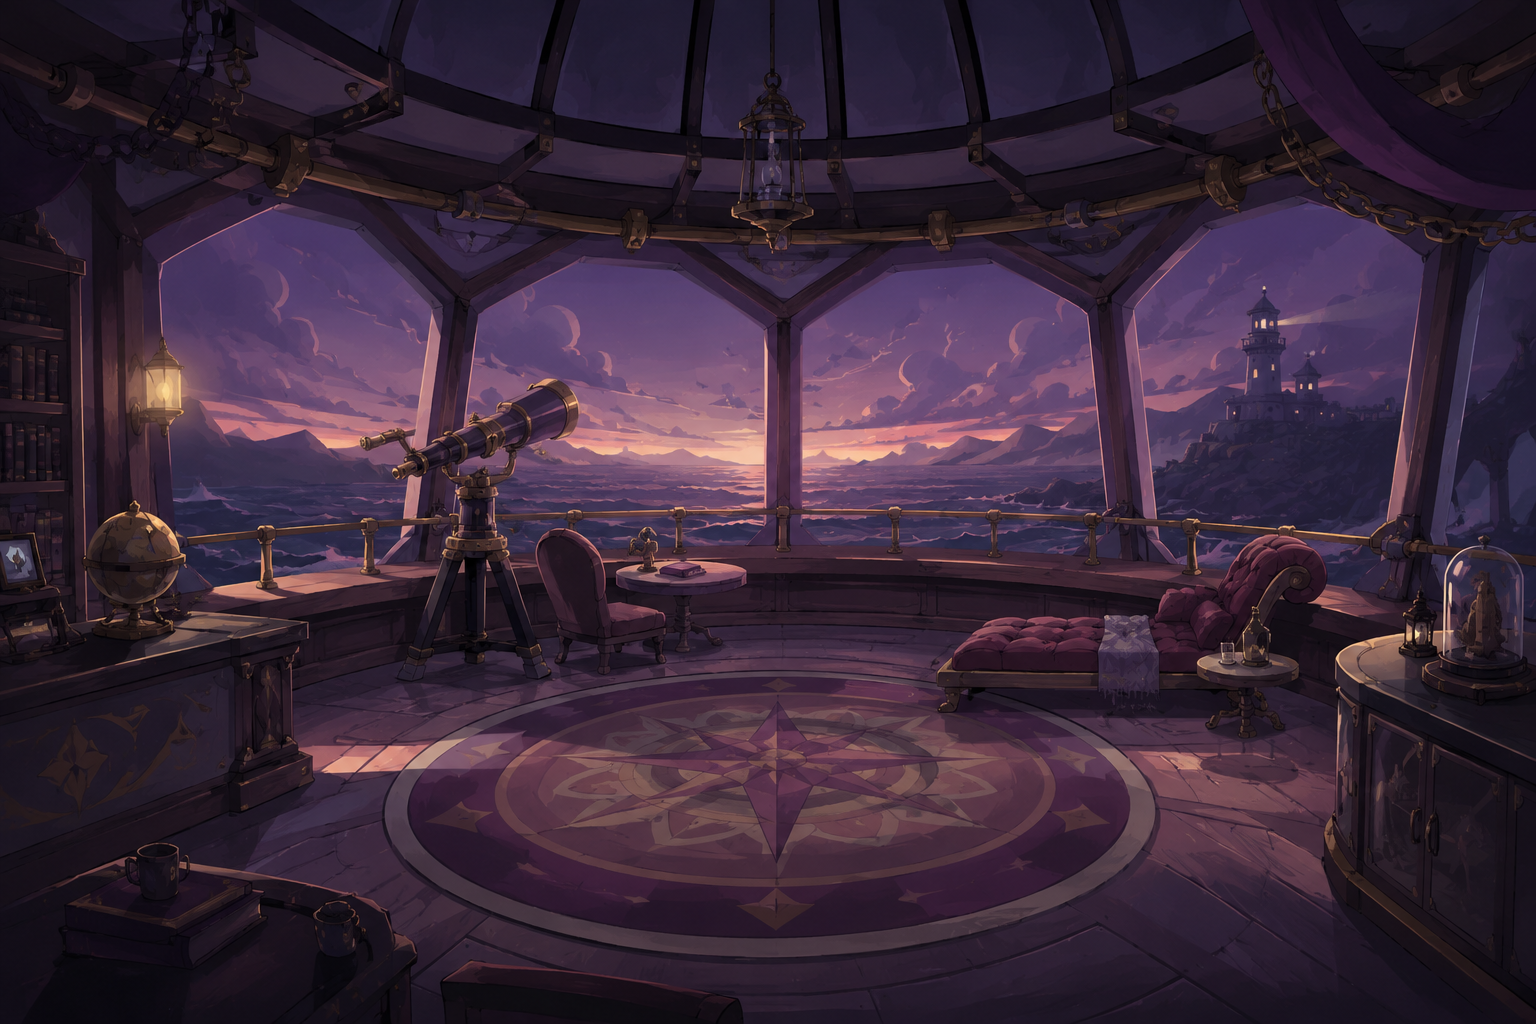
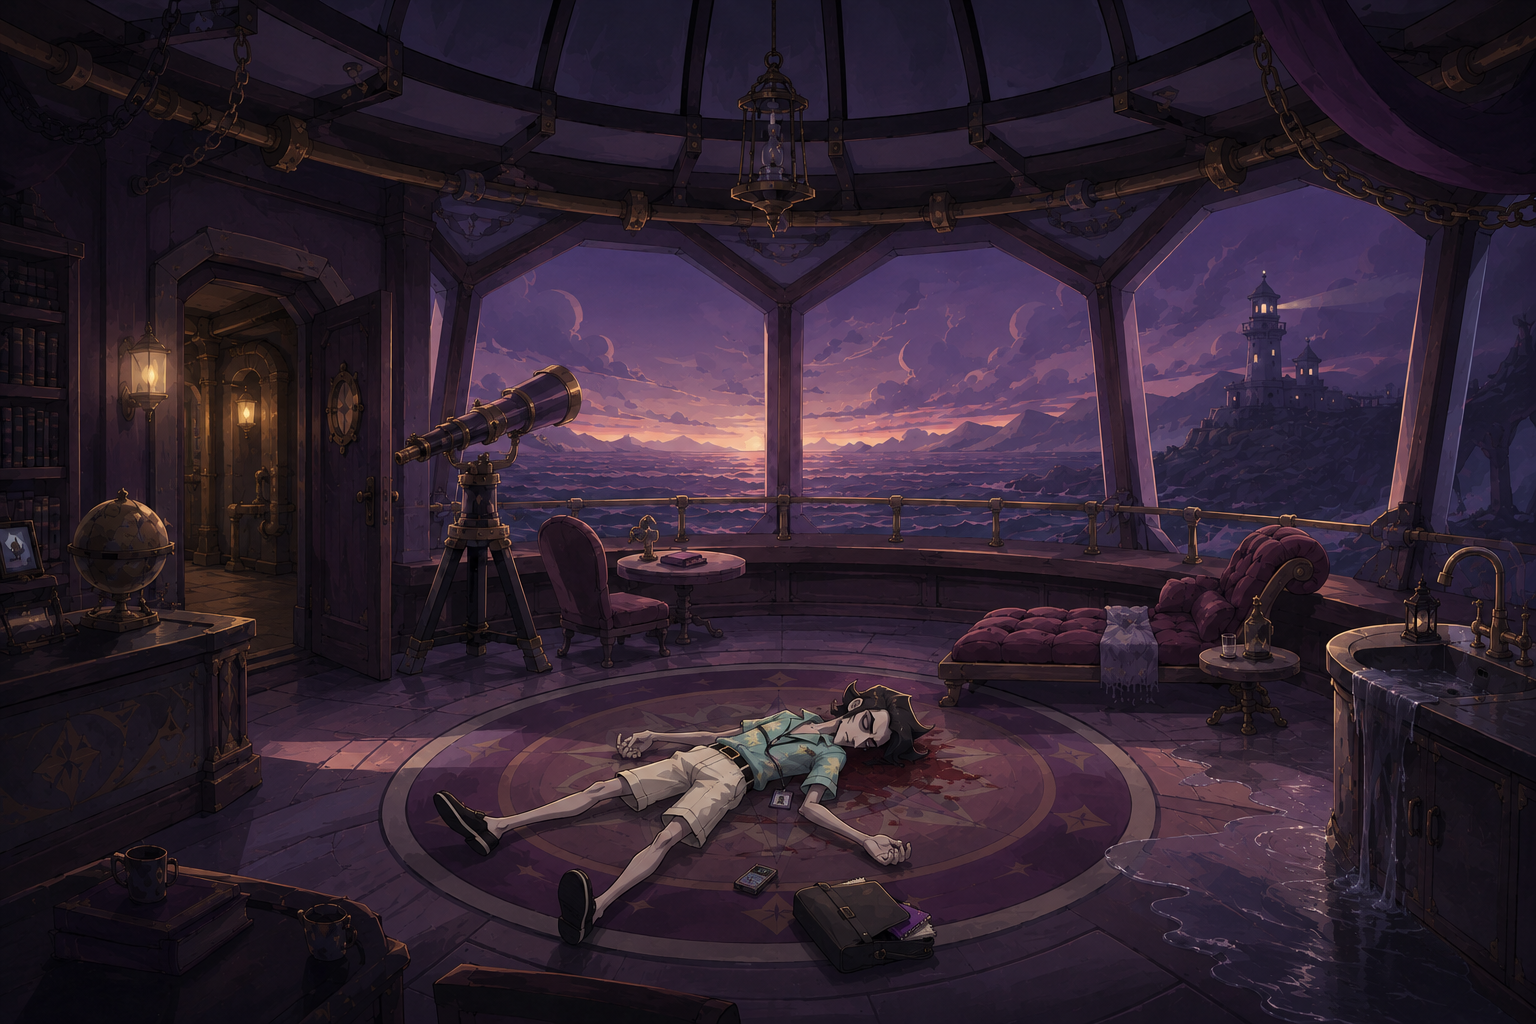
Complete location backgrounds and update Horizon Room

diff --git a/Assets/_Project/Art/Backgrounds/Locations/README.md b/Assets/_Project/Art/Backgrounds/Locations/README.md
@@ -1,12 +1,14 @@
 # Location Backgrounds
 
 `MV Elysium` 선내 장소 화면에 사용할 배경 스프라이트 모음입니다.
-전체 25개 장소 중 1차분 20개를 포함하며, 원본 이미지는 자르거나 비율을 통일하지 않고 보존합니다.
+전체 25개 장소를 모두 포함하며, 원본 이미지는 자르거나 비율을 통일하지 않고 보존합니다.
 
 ## 포함된 장소
 
 | Deck | Location | Asset |
 | --- | --- | --- |
+| — | PORT | `bg_location_port.png` |
+| — | GANGWAY | `bg_location_gangway.png` |
 | 10 | Richard Suite | `bg_location_d10_1_richard_suite.png` |
 | 10 | VIP Lounge | `bg_location_d10_2_vip_lounge.png` |
 | 10 | Open Deck | `bg_location_d10_3_open_deck.png` |
@@ -25,16 +27,13 @@
 | 6 | Vault | `bg_location_d6_1_vault.png` |
 | 6 | Archive | `bg_location_d6_2_archive.png` |
 | 6 | Laundry | `bg_location_d6_3_laundry.png` |
+| 6 | Service Hub | `bg_location_d6_4_service_hub.png` |
+| 5 | Stabilizers | `bg_location_d5_1_stabilizers.png` |
+| 5 | Ballast Tanks | `bg_location_d5_2_ballast_tanks.png` |
 | 5 | Generator | `bg_location_d5_3_generator.png` |
 | 5 | Workshop | `bg_location_d5_4_workshop.png` |
 
-## 추후 추가할 장소
-
-- PORT
-- GANGWAY
-- D6-4 Service Hub
-- D5-1 Stabilizers
-- D5-2 Ballast Tanks
+Horizon Room은 자정의 사건 현장이 포함된 최신 배경으로 교체되었습니다.
 
 ## Unity 임포트 기준
 
@@ -64,4 +63,5 @@
 
 `bg_location_<deck>_<room>_<location>.png`
 
-장소 코드와 Deck/Room 번호가 없는 `PORT`, `GANGWAY`는 추후 해당 코드가 확정된 이름으로 추가합니다.
+장소 코드와 Deck/Room 번호가 없는 장소는 `bg_location_<location>.png` 형식을 사용합니다.
+따라서 PORT와 GANGWAY는 각각 `bg_location_port.png`, `bg_location_gangway.png`로 관리합니다.
